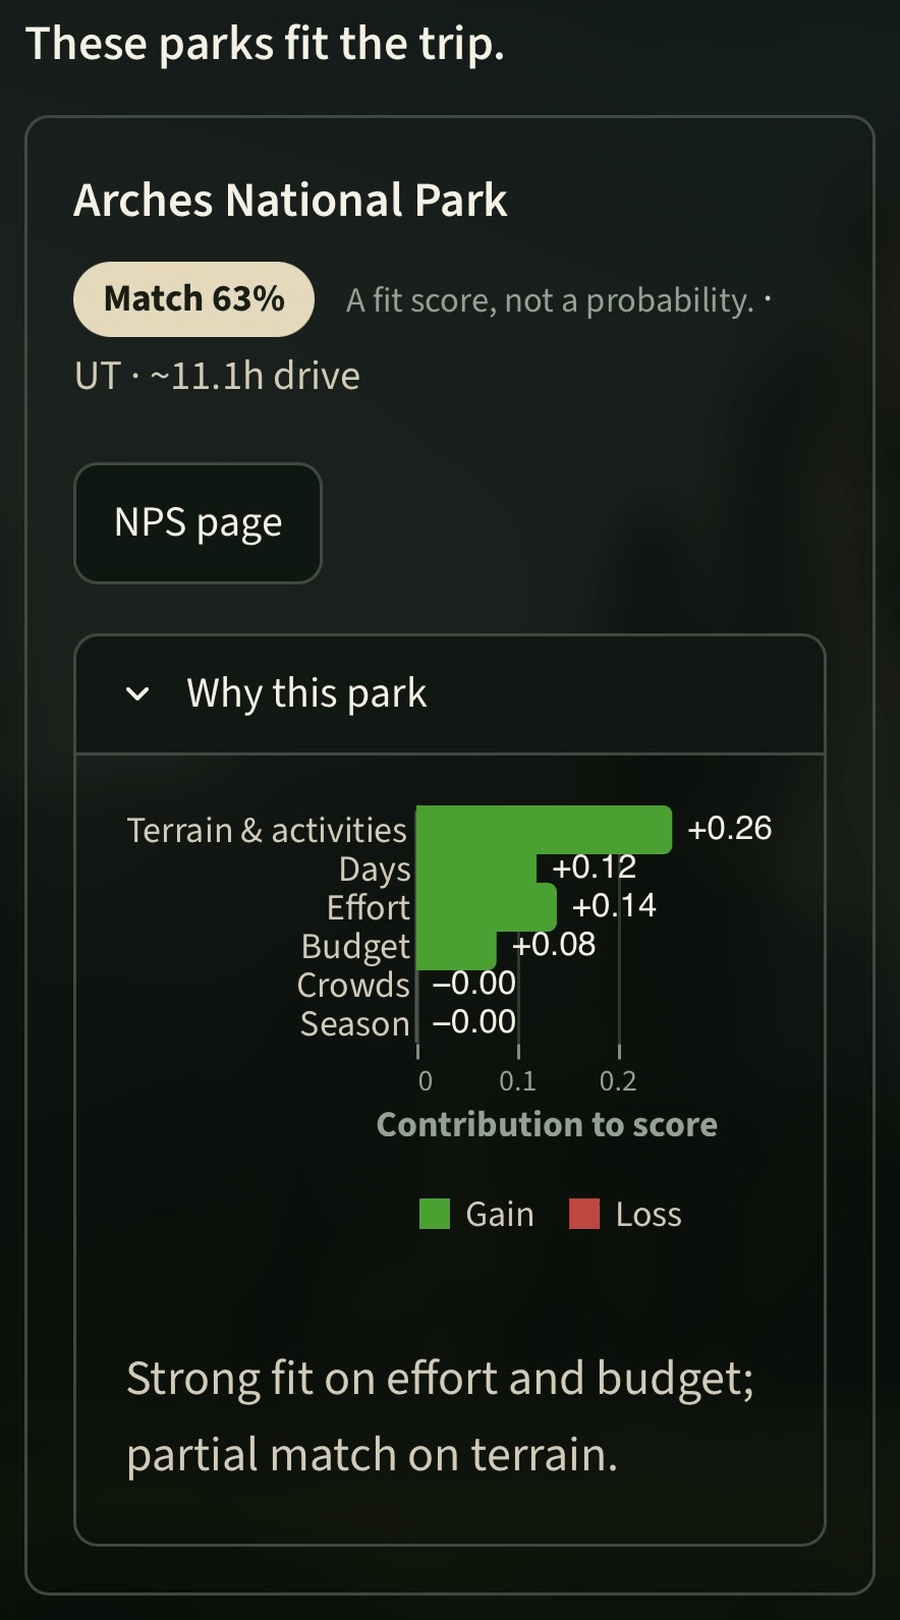
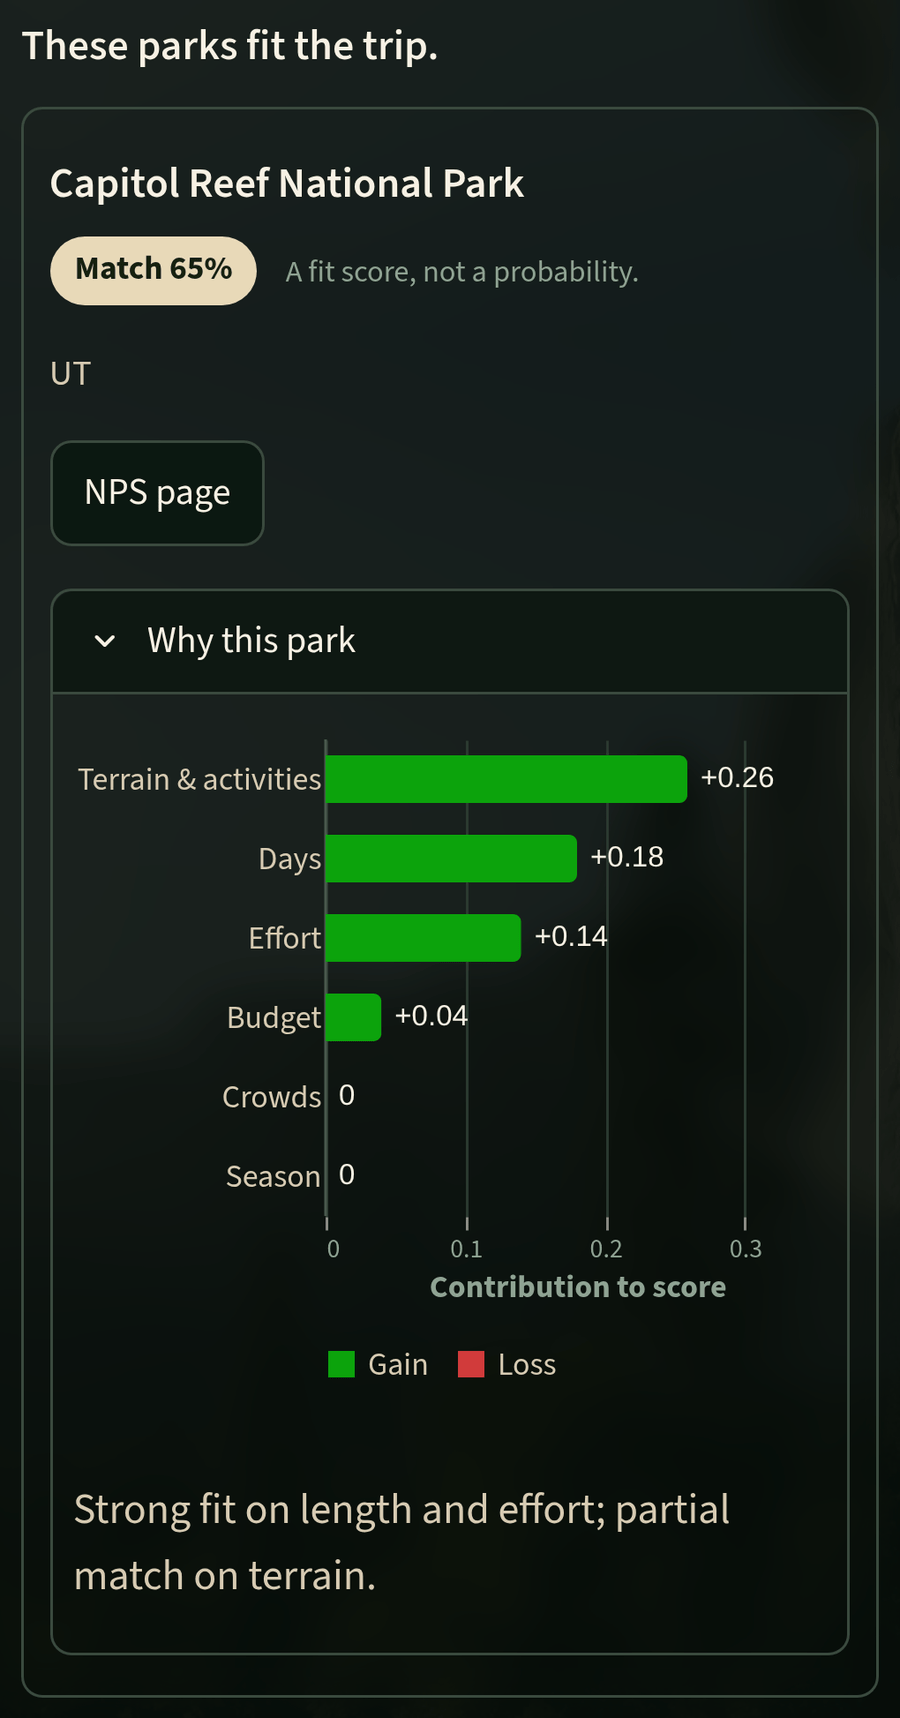
App: results card polish (zero labels, bar spacing, full-width chart, meta line) (#27)
* app: chart value labels print 0 for zero parts, never negative zero

* app: why chart rows spaced, labels clear of other bars, full card width with label-aware x bounds

* app: card meta on its own line with no-break separators (no dangling dot)

* docs: demo screenshot of the polished results card (Capitol Reef, why chart open)

* changelog: results card polish entry (app only)

* changelog: note the quiz answer-reset bug and how the screenshot was taken

diff --git a/app/streamlit_app.py b/app/streamlit_app.py
@@ -4,11 +4,13 @@ import streamlit as st
 
 from app.breakdown import (
     PART_ORDER,
+    ROW_STEP,
     VALUE_AXIS_LABELS,
-    card_meta,
+    card_meta_html,
     match_percent,
     nps_url,
     score_breakdown,
+    value_domain,
     why_sentence,
 )
 from app.contrast import primary_button_css
@@ -165,6 +167,14 @@ def inject_base_css() -> None:
           .park-name { color: #f7f1e4; font-weight: 600; font-size: 1rem; margin: 0 0 .4rem; }
           .park-name-lg { font-size: 1.35rem; }
           .park-meta { color: #d7cbb3; font-size: .85rem; }
+          [data-testid="stMarkdownContainer"] p.park-meta { font-size: .85rem; line-height: 1.4; margin: .5rem 0 0; }
+          @media (max-width: 480px) {
+            /* Five nested paddings left the chart 200 px of a 390 px phone. */
+            .st-key-app_shell { padding-left: 0; padding-right: 0; }
+            .st-key-quiz_panel { padding-left: 1rem; padding-right: 1rem; }
+            div[class*="st-key-park_card_"] { padding-left: .6rem; padding-right: .6rem; }
+            [data-testid="stExpanderDetails"] { padding-left: .5rem; padding-right: .5rem; }
+          }
           .match-badge {
             display: inline-block; background: #e8d9b8; color: #16210f;
             font-weight: 700; font-size: .78rem; padding: .18rem .6rem;
@@ -252,11 +262,13 @@ def why_chart(breakdown: pd.DataFrame) -> alt.Chart:
             "part:N",
             sort=PART_ORDER,
             title=None,
+            scale=alt.Scale(paddingInner=0.4, paddingOuter=0.2),
             axis=alt.Axis(labelColor="#d7cbb3", labelFontSize=12, domain=False, ticks=False, grid=False),
         ),
         x=alt.X(
             "value:Q",
             title="Contribution to score",
+            scale=alt.Scale(domain=list(value_domain(breakdown)), nice=False),
             axis=alt.Axis(
                 labelColor="#8fa393",
                 titleColor="#8fa393",
@@ -266,29 +278,29 @@ def why_chart(breakdown: pd.DataFrame) -> alt.Chart:
             ),
         ),
     )
-    bars = base.mark_bar(size=16, cornerRadiusEnd=3).encode(
+    bars = base.mark_bar(cornerRadiusEnd=3).encode(
         color=alt.Color(
             "kind:N",
             sort=["Gain", "Loss"],
             scale=alt.Scale(domain=["Gain", "Loss"], range=["#0ca30c", "#d03b3b"]),
             legend=alt.Legend(title=None, orient="bottom", labelColor="#d7cbb3"),
         ),
-        tooltip=[alt.Tooltip("part:N", title="Part"), alt.Tooltip("value:Q", title="Contribution", format="+.2f")],
+        tooltip=[alt.Tooltip("part:N", title="Part"), alt.Tooltip("label:N", title="Contribution")],
     )
     zero_rule = alt.Chart(pd.DataFrame({"x": [0]})).mark_rule(color="#4a5a4e", strokeWidth=1).encode(x="x:Q")
     labels_pos = (
         base.transform_filter(alt.datum.value >= 0)
         .mark_text(align="left", dx=5, color="#f7f1e4", fontSize=11)
-        .encode(text=alt.Text("value:Q", format="+.2f"))
+        .encode(text="label:N")
     )
     labels_neg = (
         base.transform_filter(alt.datum.value < 0)
         .mark_text(align="right", dx=-5, color="#f7f1e4", fontSize=11)
-        .encode(text=alt.Text("value:Q", format="+.2f"))
+        .encode(text="label:N")
     )
     return (
         (zero_rule + bars + labels_pos + labels_neg)
-        .properties(height=160, background="transparent")
+        .properties(height=alt.Step(ROW_STEP), background="transparent")
         .configure_view(strokeWidth=0)
     )
 
@@ -301,12 +313,12 @@ def _why_expander(row: pd.Series) -> None:
 
 
 def render_top_card(row: pd.Series) -> None:
-    with st.container(border=True):
+    with st.container(border=True, key=f"park_card_{row['park_code']}"):
         st.markdown(f'<p class="park-name park-name-lg">{row["name"]}</p>', unsafe_allow_html=True)
         st.markdown(
             f'<span class="match-badge">Match {match_percent(row["score"])}%</span>'
             f'<span class="match-caption">A fit score, not a probability.</span>'
-            f'<span class="park-meta"> · {card_meta(row)}</span>',
+            f'<p class="park-meta">{card_meta_html(row)}</p>',
             unsafe_allow_html=True,
         )
         st.link_button("NPS page", nps_url(row["park_code"]))
@@ -314,12 +326,12 @@ def render_top_card(row: pd.Series) -> None:
 
 
 def render_small_card(row: pd.Series) -> None:
-    with st.container(border=True):
+    with st.container(border=True, key=f"park_card_{row['park_code']}"):
         st.markdown(f'<p class="park-name">{row["name"]}</p>', unsafe_allow_html=True)
         st.markdown(
             f'<span class="match-badge">Match {match_percent(row["score"])}%</span>'
             f'<span class="match-caption">A fit score, not a probability.</span>'
-            f'<span class="park-meta"> · {card_meta(row)}</span>',
+            f'<p class="park-meta">{card_meta_html(row)}</p>',
             unsafe_allow_html=True,
         )
         st.link_button("NPS page", nps_url(row["park_code"]))

diff --git a/tests/test_breakdown.py b/tests/test_breakdown.py
@@ -4,7 +4,17 @@ import altair as alt
 import pandas as pd
 import pytest
 
-from app.breakdown import MAX_SCORE, VALUE_AXIS_LABELS, match_percent, score_breakdown, why_sentence
+from app.breakdown import (
+    MAX_SCORE,
+    MINUS,
+    LABEL_SHARE,
+    VALUE_AXIS_LABELS,
+    format_contribution,
+    match_percent,
+    score_breakdown,
+    value_domain,
+    why_sentence,
+)
 from src.features import UserProfile
 from src.recommender import W_BUDGET, W_CONTENT, W_DAYS, W_DIFF, ParkRecommender
 
@@ -158,6 +168,62 @@ def test_value_axis_labels_work_at_any_width():
     assert axis["format"] == ".2~f"
 
 
+@pytest.mark.parametrize(
+    ("value", "label"),
+    [
+        (-0.0, "0"),
+        (0.0, "0"),
+        (-0.004, "0"),
+        (0.004, "0"),
+        (0.2552, "+0.26"),
+        (0.08, "+0.08"),
+        (-0.12, f"{MINUS}0.12"),
+        (-0.2333, f"{MINUS}0.23"),
+    ],
+)
+def test_format_contribution_never_prints_negative_zero(value, label):
+    assert format_contribution(value) == label
+
+
+def test_zero_penalties_are_labeled_zero_not_negative_zero():
+    breakdown = score_breakdown(_row(crowd_penalty=0.0, month_penalty=0.0))
+    zero = breakdown.set_index("part").loc[["Crowds", "Season"]]
+    assert list(zero["label"]) == ["0", "0"]
+    assert all(math.copysign(1.0, value) == 1.0 for value in zero["value"])  # no -0.0 left
+    assert not any(label.startswith(("-", MINUS)) and set(label[1:]) <= set("0.") for label in breakdown["label"])
+
+
+def test_labels_match_values_for_gains_and_losses():
+    breakdown = score_breakdown(_row(content=0.4639, crowd_penalty=0.12, month_penalty=0.0583))
+    labels = breakdown.set_index("part")["label"]
+    assert labels["Terrain & activities"] == "+0.26"
+    assert labels["Crowds"] == f"{MINUS}0.12"
+    assert labels["Season"] == f"{MINUS}0.06"
+
+
+def test_value_domain_leaves_label_room_right_of_the_longest_bar():
+    breakdown = score_breakdown(_row(content=0.4639, days_fit=1.0, diff_fit=0.5, budget_fit=1.0))
+    lo, hi = value_domain(breakdown)
+    top = breakdown["value"].max()
+    assert lo == 0.0  # no penalties: axis starts at 0, no empty left side
+    assert (hi - top) / (hi - lo) >= LABEL_SHARE - 1e-9
+
+
+def test_value_domain_leaves_label_room_on_both_sides_with_a_penalty():
+    breakdown = score_breakdown(_row(content=0.6, crowd_penalty=0.24, month_penalty=0.0))
+    lo, hi = value_domain(breakdown)
+    low, top = breakdown["value"].min(), breakdown["value"].max()
+    assert lo < low < 0 < top < hi
+    assert (low - lo) / (hi - lo) >= LABEL_SHARE - 1e-9
+    assert (hi - top) / (hi - lo) >= LABEL_SHARE - 1e-9
+
+
+def test_value_domain_all_zero_still_has_a_width():
+    breakdown = score_breakdown(_row(content=0.0, days_fit=0.0, diff_fit=0.0, budget_fit=0.0))
+    lo, hi = value_domain(breakdown)
+    assert lo == 0.0 and hi > 0
+
+
 def test_badge_order_matches_ranking_order():
     model = ParkRecommender()
     ranked = model.recommend(PROFILE, k=5)
@@ -199,3 +265,28 @@ def test_card_meta_road_park_with_drive_limit():
 
     row = _ranked_row(PROFILE, "jotr")
     assert card_meta(row) == f"CA · ~{row['drive_hours']:.1f}h drive"
+
+
+def test_card_meta_html_separators_cannot_wrap_and_text_matches_card_meta():
+    from app.breakdown import META_SEPARATOR, card_meta, card_meta_html
+
+    profile = UserProfile(
+        biomes=["island"], tags=["kayaking"], origin_lat=34.05, origin_lon=-118.24, max_drive_hours=8
+    )
+    row = _ranked_row(profile, "chis")
+    meta = card_meta_html(row)
+    assert meta == f"CA{META_SEPARATOR}~{row['drive_hours']:.1f}h drive + boat"
+    # Every "·" is glued to its neighbors with no-break spaces, so no line
+    # can start or end with a dot; breaks can only fall inside the parts.
+    for i, char in enumerate(meta):
+        if char == "·":
+            assert meta[i - 1] == "\u00a0" and meta[i + 1] == "\u00a0"
+    assert not meta.startswith(("·", " ", "\u00a0")) and not meta.endswith(("·", " ", "\u00a0"))
+    assert meta.replace("\u00a0", " ") == card_meta(row)
+
+
+def test_card_meta_html_single_part_has_no_separator_and_is_escaped():
+    from app.breakdown import card_meta_html
+
+    assert card_meta_html(pd.Series({"states": "WY,MT,ID", "access": "road", "drive_hours": None})) == "WY, MT, ID"
+    assert card_meta_html(pd.Series({"states": "<b>", "access": "road", "drive_hours": None})) == "&lt;b&gt;"

diff --git a/app/breakdown.py b/app/breakdown.py
@@ -8,6 +8,8 @@ already computed.
 
 from __future__ import annotations
 
+import html
+
 import pandas as pd
 
 from src.features import CROWD_RANK
@@ -65,6 +67,45 @@ VALUE_AXIS_LABELS = {
 }
 
 
+MINUS = "\u2212"  # typographic minus, same glyph Vega's "+.2f" format used
+
+
+def format_contribution(value: float) -> str:
+    """Bar label for one score part: "+0.26", "\u22120.12", or "0".
+
+    Anything that rounds to 0.00 prints as plain "0". Penalties are stored
+    as negated values, so a zero penalty is -0.0 and Vega printed it as
+    "\u22120.00".
+    """
+    rounded = round(float(value), 2)
+    if rounded == 0:
+        return "0"
+    sign = "+" if rounded > 0 else MINUS
+    return f"{sign}{abs(rounded):.2f}"
+
+
+# Share of the plot width kept free for value labels on each side that has
+# bars: "+0.26" at 11 px is ~37 px with its offset, about 28% of the
+# ~135 px plot on a 390 px phone.
+LABEL_SHARE = 0.28
+ROW_STEP = 30  # px per chart row; bars fill 60% of it
+
+
+def value_domain(breakdown: pd.DataFrame) -> tuple[float, float]:
+    """x-axis bounds that fit the bars plus room for their value labels.
+
+    Positive labels sit right of their bar (zero parts too, at x=0), so
+    the right side always gets label room; the left side gets it only when
+    a part is negative.
+    """
+    lo = min(0.0, float(breakdown["value"].min()))
+    hi = max(0.0, float(breakdown["value"].max()))
+    span = (hi - lo) or 0.1
+    sides = 2 if lo < 0 else 1
+    pad = span * LABEL_SHARE / (1 - sides * LABEL_SHARE)
+    return (lo - pad if lo < 0 else 0.0, hi + pad)
+
+
 def match_percent(score: float) -> int:
     """Score as a percentage of the best possible score, for the "Match" badge.
 
@@ -93,10 +134,13 @@ def score_breakdown(row: pd.Series) -> pd.DataFrame:
         "Crowds": -float(row["crowd_penalty"]),
         "Season": -float(row.get("month_penalty", 0.0)),
     }
+    # `+ 0.0` turns a zero penalty's -0.0 into 0.0.
+    values = {part: value + 0.0 for part, value in values.items()}
     return pd.DataFrame(
         {
             "part": PART_ORDER,
             "value": [values[part] for part in PART_ORDER],
+            "label": [format_contribution(values[part]) for part in PART_ORDER],
             "kind": ["Loss" if values[part] < 0 else "Gain" for part in PART_ORDER],
             "max": [PART_MAX[part] for part in PART_ORDER],
         }
@@ -155,19 +199,32 @@ def why_sentence(breakdown: pd.DataFrame) -> str:
     return f"{fit_clause}; {gap_clause}."
 
 
+def _meta_bits(row: pd.Series) -> list[str]:
+    bits = [", ".join(code.strip() for code in str(row["states"]).split(","))]
+    travel = access_label(row.get("access"), row.get("drive_hours"))
+    if travel:
+        bits.append(travel)
+    return bits
+
+
 def card_meta(row: pd.Series) -> str:
-    """States plus the travel note shown next to the Match badge.
+    """States plus the travel note shown under the Match badge.
 
     Multi-state parks read "WY, MT, ID" (the catalog stores "WY,MT,ID").
 
     Same label the engine puts at the end of `why` (src.recommender.access_label):
     "~Xh drive", "~Xh drive + boat", "boat needed", "flight needed", or none.
     """
-    bits = [", ".join(code.strip() for code in str(row["states"]).split(","))]
-    travel = access_label(row.get("access"), row.get("drive_hours"))
-    if travel:
-        bits.append(travel)
-    return " · ".join(bits)
+    return " · ".join(_meta_bits(row))
+
+
+# No-break spaces on both sides, so a wrapped line never starts or ends with "·".
+META_SEPARATOR = "\u00a0·\u00a0"
+
+
+def card_meta_html(row: pd.Series) -> str:
+    """`card_meta` for HTML: escaped, with separators that cannot wrap."""
+    return META_SEPARATOR.join(html.escape(bit) for bit in _meta_bits(row))
 
 
 def nps_url(park_code: str) -> str:

diff --git a/CHANGELOG.md b/CHANGELOG.md
@@ -1,5 +1,46 @@
 # Changelog
 
+## 2026-10-05 — app: results card polish (app only)
+
+Measured in Chrome at 390 px wide (phone), before → after:
+- Zero parts: Crowds and Season printed "−0.00" (a zero penalty is stored
+  as −0.0) → "0". Labels now come from `format_contribution` in
+  `app/breakdown.py` ("+0.26", "−0.12", "0"); the tooltip uses the same text.
+- Bar spacing: the whole chart was 160 px tall including axis, title and
+  legend, so 6 rows got ~13 px each while bars were a fixed 16 px and
+  overlapped → each row is a 30 px step with bars at 60% of it
+  (`paddingInner` 0.4), so bars are separate and labels no longer touch the
+  next row's bar.
+- Width and axis: the chart was 200 px wide on a 390 px phone (five nested
+  paddings) and the axis ran to a nice 0.3 with no label plan → narrow
+  screens trim the shell, panel, card and expander side padding, so the
+  chart is 285 px wide, and the x bounds come from the data
+  (`value_domain`), keeping 28% of the plot free for value labels on each
+  side that has bars. The #24 axis settings (3 ticks, overlap removal) stay;
+  no axis labels overlap at 390 px.
+- Card header: "A fit score, not a probability. ·" wrapped and left a
+  dangling dot → the states/drive line (`card_meta_html`) is its own line,
+  with no-break spaces around every "·".
+- `docs/demo.png`: new screenshot from a local run (Chromium, 390 px CSS
+  width, device scale 3) of the quiz with canyon + hiking, easy, 2-3 days,
+  medium crowds, mid budget, April, Anywhere: Capitol Reef National Park,
+  Match 65%, why chart open. Clipped from the "These parks fit the trip."
+  heading to the card bottom with an 8 px margin (1020 × 1947), resized to
+  900 × 1718, 256-color PNG via libimagequant (141 KB). README alt text
+  updated.
+- Known bug, not fixed here: the quiz loses answers between steps.
+  Streamlit deletes a widget's key once the widget is not drawn, and
+  `init_state` then restores the default, so results always use the default
+  answers (desert, hiking, easy, 2-3 days, medium, mid, November). The
+  screenshot run used a local, uncommitted 5-line patch that re-assigns the
+  answer keys each run; the card and chart code are exactly this release.
+- No engine change: `data/engine_fixtures.json` (`--check`) and
+  `web/engine_data.json` unchanged, and `src.evaluate` output is identical.
+  Metrics (unedited, unchanged):
+  - model train: R-Prec **0.685**, nDCG@5 **0.739** → **0.685** / **0.739**
+  - model holdout: **0.794** / **0.842** → **0.794** / **0.842**
+  - popularity, random and content-only baselines also unchanged.
+
 ## 2026-10-05 — demo screenshot: results card (docs only)
 
 - `docs/demo.png` now shows a live-app results card after #24/#25 (Arches

diff --git a/README.md b/README.md
@@ -6,7 +6,7 @@ choosing which park to visit.
 
 **Live demo:** https://us-national-parks-recommender.streamlit.app
 
-![Live demo results card for Arches National Park: 63% match, ~11.1h drive from the start, the 'Why this park' score chart, and the sentence 'Strong fit on effort and budget; partial match on terrain.'](docs/demo.png)
+![Live demo results card for Capitol Reef National Park: Match 65%, the 'Why this park' chart (terrain & activities +0.26, days +0.18, effort +0.14, budget +0.04, crowds 0, season 0) and the sentence 'Strong fit on length and effort; partial match on terrain.'](docs/demo.png)
 
 ## How it works
 
